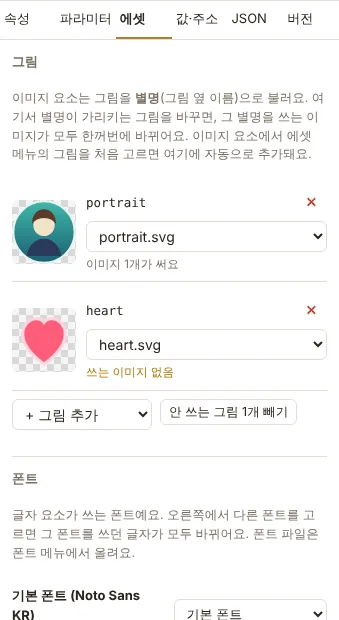
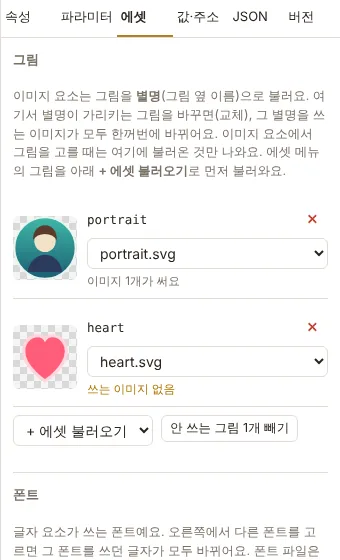
Editor: pick images only from assets loaded in the 에셋 tab (#8)
- The image "에셋" field lists only the pictures loaded into the template
  (plus "(없음)"); with none loaded it shows a button to the 에셋 tab.
- The 에셋 tab is where pictures are loaded (+ 에셋 불러오기), swapped and
  removed; wording updated to say so.
- Tutorial step 6 now loads the pictures first; docs updated.

Claude-Session: https://claude.ai/code/session_011e7i7uxX8Q6QpFWp4vtuYR

diff --git a/ui/editor/props.tsx b/ui/editor/props.tsx
@@ -42,7 +42,8 @@ export function Props(p: {
   assets: Asset[];
   settings: Record<string, string>;
   onChange: (patch: Record<string, unknown>) => void;
-  onAddAlias: (assetName: string) => string;
+  /** open the 에셋 tab, where pictures are loaded into the template */
+  onOpenAssets?: () => void;
   /** add a text element next to the selected one */
   onAddLabel?: (text: string) => void;
   /** line up with the canvas: left, center, right, top, middle, bottom */
@@ -56,23 +57,11 @@ export function Props(p: {
     <BindField label={label} value={e[k]} onChange={set(k)} kind={kind} params={params} {...extra} />
   );
   const aliases = Object.entries(p.spec.assets ?? {});
-  // one list for the image picker: assets this template already uses, then every other asset in the library
-  const LIB = 'lib:';
-  const used = new Set(aliases.map(([, n]) => n));
+  // the image picker offers only the pictures loaded into this template (the 에셋 tab), by alias
   const assetChoices: [string, string][] = [
     ['', '(없음)'],
     ...aliases.map(([a, n]) => [a, a === n || assetFile(n).replace(/\.[a-z0-9]+$/i, '') === a ? n : `${n} (${a})`] as [string, string]),
-    ...p.assets.filter((x) => !used.has(x.name)).map((x) => [LIB + x.name, x.name] as [string, string]),
   ];
-  // a library pick becomes an alias of this template (added on first use)
-  const fromLibrary = (v: any): any => {
-    if (typeof v === 'string') return v.startsWith(LIB) ? p.onAddAlias(v.slice(LIB.length)) : v;
-    if (v && typeof v === 'object') {
-      if ('cases' in v) return { ...v, cases: Object.fromEntries(Object.entries(v.cases).map(([k, x]) => [k, fromLibrary(x)])), default: fromLibrary(v.default) };
-      if ('stops' in v) return { ...v, stops: v.stops.map((x: any) => ({ ...x, value: fromLibrary(x.value) })), default: fromLibrary(v.default) };
-    }
-    return v;
-  };
   const hasSize = e.type !== 'group' && e.type !== 'repeat';
 
   return (
@@ -304,13 +293,23 @@ export function Props(p: {
           <BindField
             label="에셋"
             value={e.asset}
-            onChange={(v) => p.onChange({ asset: fromLibrary(v) })}
+            onChange={(v) => p.onChange({ asset: v })}
             kind="select"
             params={params}
             options={assetChoices}
           />
+          {!aliases.length && (
+            <p class="warn">
+              아직 불러온 그림이 없어요.{' '}
+              {p.onOpenAssets && (
+                <button class="small" onClick={p.onOpenAssets}>
+                  에셋 탭에서 불러오기
+                </button>
+              )}
+            </p>
+          )}
           <p class="hint">
-            에셋 메뉴의 그림 전체에서 바로 골라요. 처음 고른 그림은 <b>에셋</b> 탭에 별명으로 추가되고, 이 템플릿의 그림은 거기서 한꺼번에 바꾸거나 정리해요.
+            <b>에셋</b> 탭에 불러온 그림 중에서 골라요. 새 그림은 에셋 탭에서 먼저 불러오고, 바꾸거나 빼는 것도 거기서 해요.
             "(없음)"을 고르면 그 경우엔 그림을 그리지 않아요.
             값마다 다른 그림을 쓰려면 <b>값에 따라</b>를 누르고 파라미터를 고른 뒤, <b>모두 추가</b>(또는 + 경우)로 줄을 만들어 줄마다 그림을 골라요. 맞는 줄이 없으면 "그 밖"의 그림이 나와요.
           </p>

diff --git a/ui/editor/assets-panel.tsx b/ui/editor/assets-panel.tsx
@@ -64,8 +64,8 @@ export function AssetsPanel(p: {
     <div class="props">
       <h4>그림</h4>
       <p class="hint">
-        이미지 요소는 그림을 <b>별명</b>(그림 옆 이름)으로 불러요. 여기서 별명이 가리키는 그림을 바꾸면, 그 별명을 쓰는 이미지가 모두 한꺼번에 바뀌어요. 이미지 요소에서
-        에셋 메뉴의 그림을 처음 고르면 여기에 자동으로 추가돼요.
+        이미지 요소는 그림을 <b>별명</b>(그림 옆 이름)으로 불러요. 여기서 별명이 가리키는 그림을 바꾸면(교체), 그 별명을 쓰는 이미지가 모두 한꺼번에 바뀌어요. 이미지 요소에서
+        그림을 고를 때는 여기에 불러온 것만 나와요. 에셋 메뉴의 그림을 아래 <b>+ 에셋 불러오기</b>로 먼저 불러와요.
       </p>
       {aliases.map(([a, n], i) => {
         const asset = p.assets.find((x) => x.name === n);
@@ -78,7 +78,7 @@ export function AssetsPanel(p: {
                 <code class="alias">{a}</code>
                 <button
                   class="ghost small danger"
-                  title="이 템플릿에서 빼기"
+                  title="불러온 에셋 빼기 (에셋 메뉴의 파일은 그대로)"
                   onClick={() => (!used || confirm(`이미지 ${used}개가 "${a}"를 써요. 빼면 그 자리가 비어요. 뺄까요?`)) && setAliases(aliases.filter((_, j) => j !== i))}
                 >
                   ✕
@@ -93,10 +93,10 @@ export function AssetsPanel(p: {
           </div>
         );
       })}
-      {!aliases.length && <p class="empty small">아직 없어요. 아래에서 고르거나, 이미지 요소의 "에셋" 칸에서 고르면 추가돼요.</p>}
+      {!aliases.length && <p class="empty small">아직 불러온 그림이 없어요. 아래 "+ 에셋 불러오기"에서 골라요.</p>}
       <div class="row">
         <select value="" onChange={(e) => e.currentTarget.value && p.onAddAlias(e.currentTarget.value)}>
-          <option value="">+ 그림 추가</option>
+          <option value="">+ 에셋 불러오기</option>
           <AssetOptions assets={p.assets.filter((x) => !aliases.some(([, n]) => n === x.name))} />
         </select>
         {unused.length > 0 && (

diff --git a/ui/editor/editor.tsx b/ui/editor/editor.tsx
@@ -396,7 +396,7 @@ function EditorInner(p: { detail: TemplateDetail; onReload: (d: TemplateDetail) 
                   assets={data.assets}
                   settings={data.settings}
                   onChange={(patch) => patchSel(patch)}
-                  onAddAlias={addAlias}
+                  onOpenAssets={() => setTab('assets')}
                   onAddLabel={addLabel}
                   onAlign={align}
                   actions={{ dup, del, up: () => shift(1), down: () => shift(-1), wrap, unwrap: selEl.type === 'group' ? unwrap : undefined }}

diff --git a/ui/version.ts b/ui/version.ts
@@ -1,3 +1,3 @@
 // Shown in the header and on the login screen so you can tell which admin UI is deployed.
 // Bump it with every change to the UI.
-export const UI_VERSION = '2026-10-26.2';
+export const UI_VERSION = '2026-10-26.3';

diff --git a/docs/템플릿-만들기.md b/docs/템플릿-만들기.md
@@ -99,20 +99,24 @@
 
 ## 6. 초상 이미지
 
-레이어에서 **이름**을 고른 채 툴바의 **+ 이미지**를 누르면 그 바로 위에 이미지가 생겨요.
-속성 탭의 **에셋** 칸에서 `portrait.svg`를 고르고, 이름을 `초상`, 위치 x 20, y 20, 크기 72×72로 맞춰요.
+이미지 요소는 이 템플릿에 **불러온 에셋** 중에서만 그림을 골라요. 그래서 먼저 쓸 그림을 불러와요.
 
-![초상 이미지](images/tutorial/10-portrait.webp)
-
-- **맞추기**는 기본이 "안에 맞추기"라 그림이 잘리지 않아요. 칸을 꽉 채우려면 "꽉 채우기"를 골라요.
-- **에셋** 목록에는 이 템플릿이 이미 쓰는 그림이 먼저, 그 아래에 에셋 메뉴의 나머지 그림이 모두 나와요. 처음 고른 그림은 이 템플릿에 자동으로 추가돼요. **(없음)**을 고르면 비워져요.
-- 위치 아래 **캔버스에 맞추기** 버튼으로 왼쪽·가운데·오른쪽, 위·가운데·아래에 바로 붙일 수 있어요.
-- 템플릿은 그림을 **별명**으로 불러요. 오른쪽 **에셋** 탭에서 이 템플릿이 쓰는 그림과 폰트를 한곳에서 관리해요.
+1. 오른쪽 **에셋** 탭을 열고, **+ 에셋 불러오기**에서 `portrait.svg`와 `heart.svg`를 차례로 골라요.
+2. 레이어에서 **이름**을 고른 채 툴바의 **+ 이미지**를 누르면 그 바로 위에 이미지가 생겨요.
+3. 속성 탭의 **에셋** 칸에서 `portrait.svg`를 고르고, 이름을 `초상`, 위치 x 20, y 20, 크기 72×72로 맞춰요.
 
 ![에셋 탭](images/tutorial/15c-assets-tab.webp)
 
-  - **그림**: 별명마다 미리보기, 가리키는 파일, 쓰는 이미지 수가 보여요. 파일을 바꾸면 그 별명을 쓰는 이미지가 모두 바뀌어요. **+ 그림 추가**로 미리 넣어 두거나, **안 쓰는 그림 빼기**로 정리해요.
-  - **폰트**: 글자 요소가 쓰는 폰트와 글자 수가 보여요. 오른쪽에서 다른 폰트를 고르면 그 폰트를 쓰던 글자가 한꺼번에 바뀌어요.
+![초상 이미지](images/tutorial/10-portrait.webp)
+
+- 에셋 탭의 **그림**에는 불러온 에셋마다 미리보기, 별명, 가리키는 파일, 쓰는 이미지 수가 보여요.
+  - **교체**: 가리키는 파일을 다른 그림으로 바꾸면, 그 별명을 쓰는 이미지가 모두 한꺼번에 바뀌어요.
+  - **빼기**: ✕를 누르거나 **안 쓰는 그림 빼기**로 정리해요. 에셋 메뉴의 파일은 지워지지 않아요.
+- 에셋 탭의 **폰트**에는 글자 요소가 쓰는 폰트와 글자 수가 보여요. 다른 폰트를 고르면 그 폰트를 쓰던 글자가 한꺼번에 바뀌어요.
+- 에셋 메뉴에 없는 새 그림은 먼저 에셋 메뉴에 올려요(2장). 편집기 왼쪽 아래 칸에 파일을 놓으면 올리고 불러와서 바로 배치까지 해요.
+- 속성 탭의 **에셋** 칸에서 **(없음)**을 고르면 비워져요. 불러온 그림이 하나도 없으면 **에셋 탭에서 불러오기** 버튼이 나와요.
+- **맞추기**는 기본이 "안에 맞추기"라 그림이 잘리지 않아요. 칸을 꽉 채우려면 "꽉 채우기"를 골라요.
+- 위치 아래 **캔버스에 맞추기** 버튼으로 왼쪽·가운데·오른쪽, 위·가운데·아래에 바로 붙일 수 있어요.
 
 ## 7. 이름 글자와 넘침 처리
 
@@ -180,11 +184,11 @@
 
 ### 값마다 다른 그림
 
-기분마다 다른 그림을 보여 주고 싶다면, 먼저 쓸 그림들을 에셋 메뉴에 모두 올려 둬요(예: `calm.svg`, `tense.svg`, `angry.svg`). 그다음 이미지 요소의 **에셋** 옆 **값에 따라**를 누르고, 파라미터를 `mood`로 바꾼 뒤 **모두 추가**를 눌러요. 평온·긴장·분노 줄마다 오른쪽 목록에서 그림을 골라요.
+기분마다 다른 그림을 보여 주고 싶다면, 먼저 쓸 그림들을 에셋 탭에서 모두 불러와요(예: `calm.svg`, `tense.svg`, `angry.svg`). 그다음 이미지 요소의 **에셋** 옆 **값에 따라**를 누르고, 파라미터를 `mood`로 바꾼 뒤 **모두 추가**를 눌러요. 평온·긴장·분노 줄마다 오른쪽 목록에서 그림을 골라요.
 
 ![값마다 다른 그림](images/tutorial/15b-asset-per-value.webp)
 
-- 목록에는 에셋 메뉴의 모든 그림이 나와서, 여기서 바로 고르면 돼요. 따로 불러올 필요가 없어요.
+- 목록에는 에셋 탭에 불러온 그림이 나와요. 원하는 그림이 없으면 에셋 탭에서 먼저 불러와요.
 - **(없음)**을 고르면 그 값일 때 그림을 그리지 않아요. 줄을 아예 빼려면 오른쪽 ✕를 눌러요.
 - 맞는 줄이 없으면 **그 밖** 그림이 나와요.
 

diff --git a/docs/관리-화면.md b/docs/관리-화면.md
@@ -84,7 +84,7 @@ npx wrangler secret put ADMIN_PATH
 - **오른쪽 탭**
   - **속성**: 고른 요소의 위치(x, y, w, h), 색, 글자, 에셋 같은 값을 숫자로 고쳐요. 아무것도 안 고르면 캔버스 크기와 배경색이 나와요.
     **캔버스에 맞추기** 버튼(왼쪽·가운데·오른쪽, 위·가운데·아래)으로 고른 요소를 캔버스 가장자리나 한가운데에 붙여요. 지금 미리보기 값으로 그린 크기를 기준으로 해요.
-    이미지의 **에셋** 칸에는 이 템플릿이 쓰는 그림과 에셋 메뉴의 모든 그림이 함께 나와요. 고르면 템플릿에 자동으로 추가되고, **(없음)**으로 비울 수 있어요. "값에 따라"로 값마다 다른 그림을 고를 때도 줄마다 같은 목록에서 골라요.
+    이미지의 **에셋** 칸에는 **에셋** 탭에 불러온 그림만 나와요. 새 그림은 에셋 탭에서 먼저 불러오고, **(없음)**으로 비울 수 있어요. "값에 따라"로 값마다 다른 그림을 고를 때도 줄마다 같은 목록에서 골라요.
     대부분의 칸 옆 **"값에 따라"** 를 누르면 그 값이 파라미터에 따라 바뀌게 만들 수 있어요.
     예: 게이지 색을 `hp`가 60 이상이면 초록, 30 이상이면 노랑, 그 밖엔 빨강(숫자 구간에 따라).
     **글자가 너비(w)를 넘칠 때**: 글자 속성에서 "글자 줄이기"(실제 폰트의 글자 폭으로 재서 칸에 맞게 줄임, "가장 작은 크기"까지 줄여도 넘치면 나머지를 숨김)나 "넘친 부분 숨기기"를 골라요. 너비(w)가 정해져 있어야 해요. 미리보기와 실제 그림이 같게 나와요.
@@ -95,7 +95,7 @@ npx wrangler secret put ADMIN_PATH
   - **파라미터**: 주소로 받을 값(이름, 종류, 기본값, 범위, 설명)을 정해요. 이름을 바꾸면 요소에서 쓰던 곳도 같이 바뀌어요.
     **설명**을 채우면 챗봇 안내문에 들어가서 챗봇이 더 정확하게 써요.
     종류를 **무작위 (주사위)**로 하면 챗봇이 값을 보내지 않고 판박이가 굴려요(숫자 범위, 또는 적어 둔 목록에서 하나). 주소의 다른 값으로 굴리기 때문에 같은 주소는 늘 같은 결과이고, 값이 하나라도 바뀌면 새로 굴려요. 턴마다 새로 굴리려면 턴 번호 같은 숫자 파라미터를 하나 두세요.
-  - **에셋**: 이 템플릿이 쓰는 그림(별명 → 파일)과 폰트를 한곳에서 봐요. 별명이 가리키는 그림을 바꾸면 그 별명을 쓰는 이미지가 모두 바뀌고, 폰트를 바꾸면 그 폰트를 쓰던 글자가 모두 바뀌어요. 쓰는 곳이 없는 그림은 한 번에 뺄 수 있어요.
+  - **에셋**: 이 템플릿이 쓰는 그림(별명 → 파일)과 폰트를 한곳에서 관리해요. **+ 에셋 불러오기**로 에셋 메뉴의 그림을 불러오고, 파일을 바꿔 교체하고, ✕로 빼요(에셋 메뉴의 파일은 그대로). 별명이 가리키는 그림을 바꾸면 그 별명을 쓰는 이미지가 모두 바뀌고, 폰트를 바꾸면 그 폰트를 쓰던 글자가 모두 바뀌어요. 쓰는 곳이 없는 그림은 한 번에 뺄 수 있어요.
   - **값·주소**: 미리보기 값을 바꿔 보고, 그 값으로 만든 이미지 주소·마크다운·**챗봇 안내문**을 복사해요. "서버로 렌더"는 실제 PNG를 만들어 보여 줘요(저장 안 함).
   - **JSON**: 템플릿 규칙 전체예요. 복사·붙여넣기나 고급 수정에 써요.
   - **버전**: 게시한 버전 목록이에요. 예전 버전을 편집기로 불러오거나, 이미지 주소를 예전 버전으로 되돌려요.
